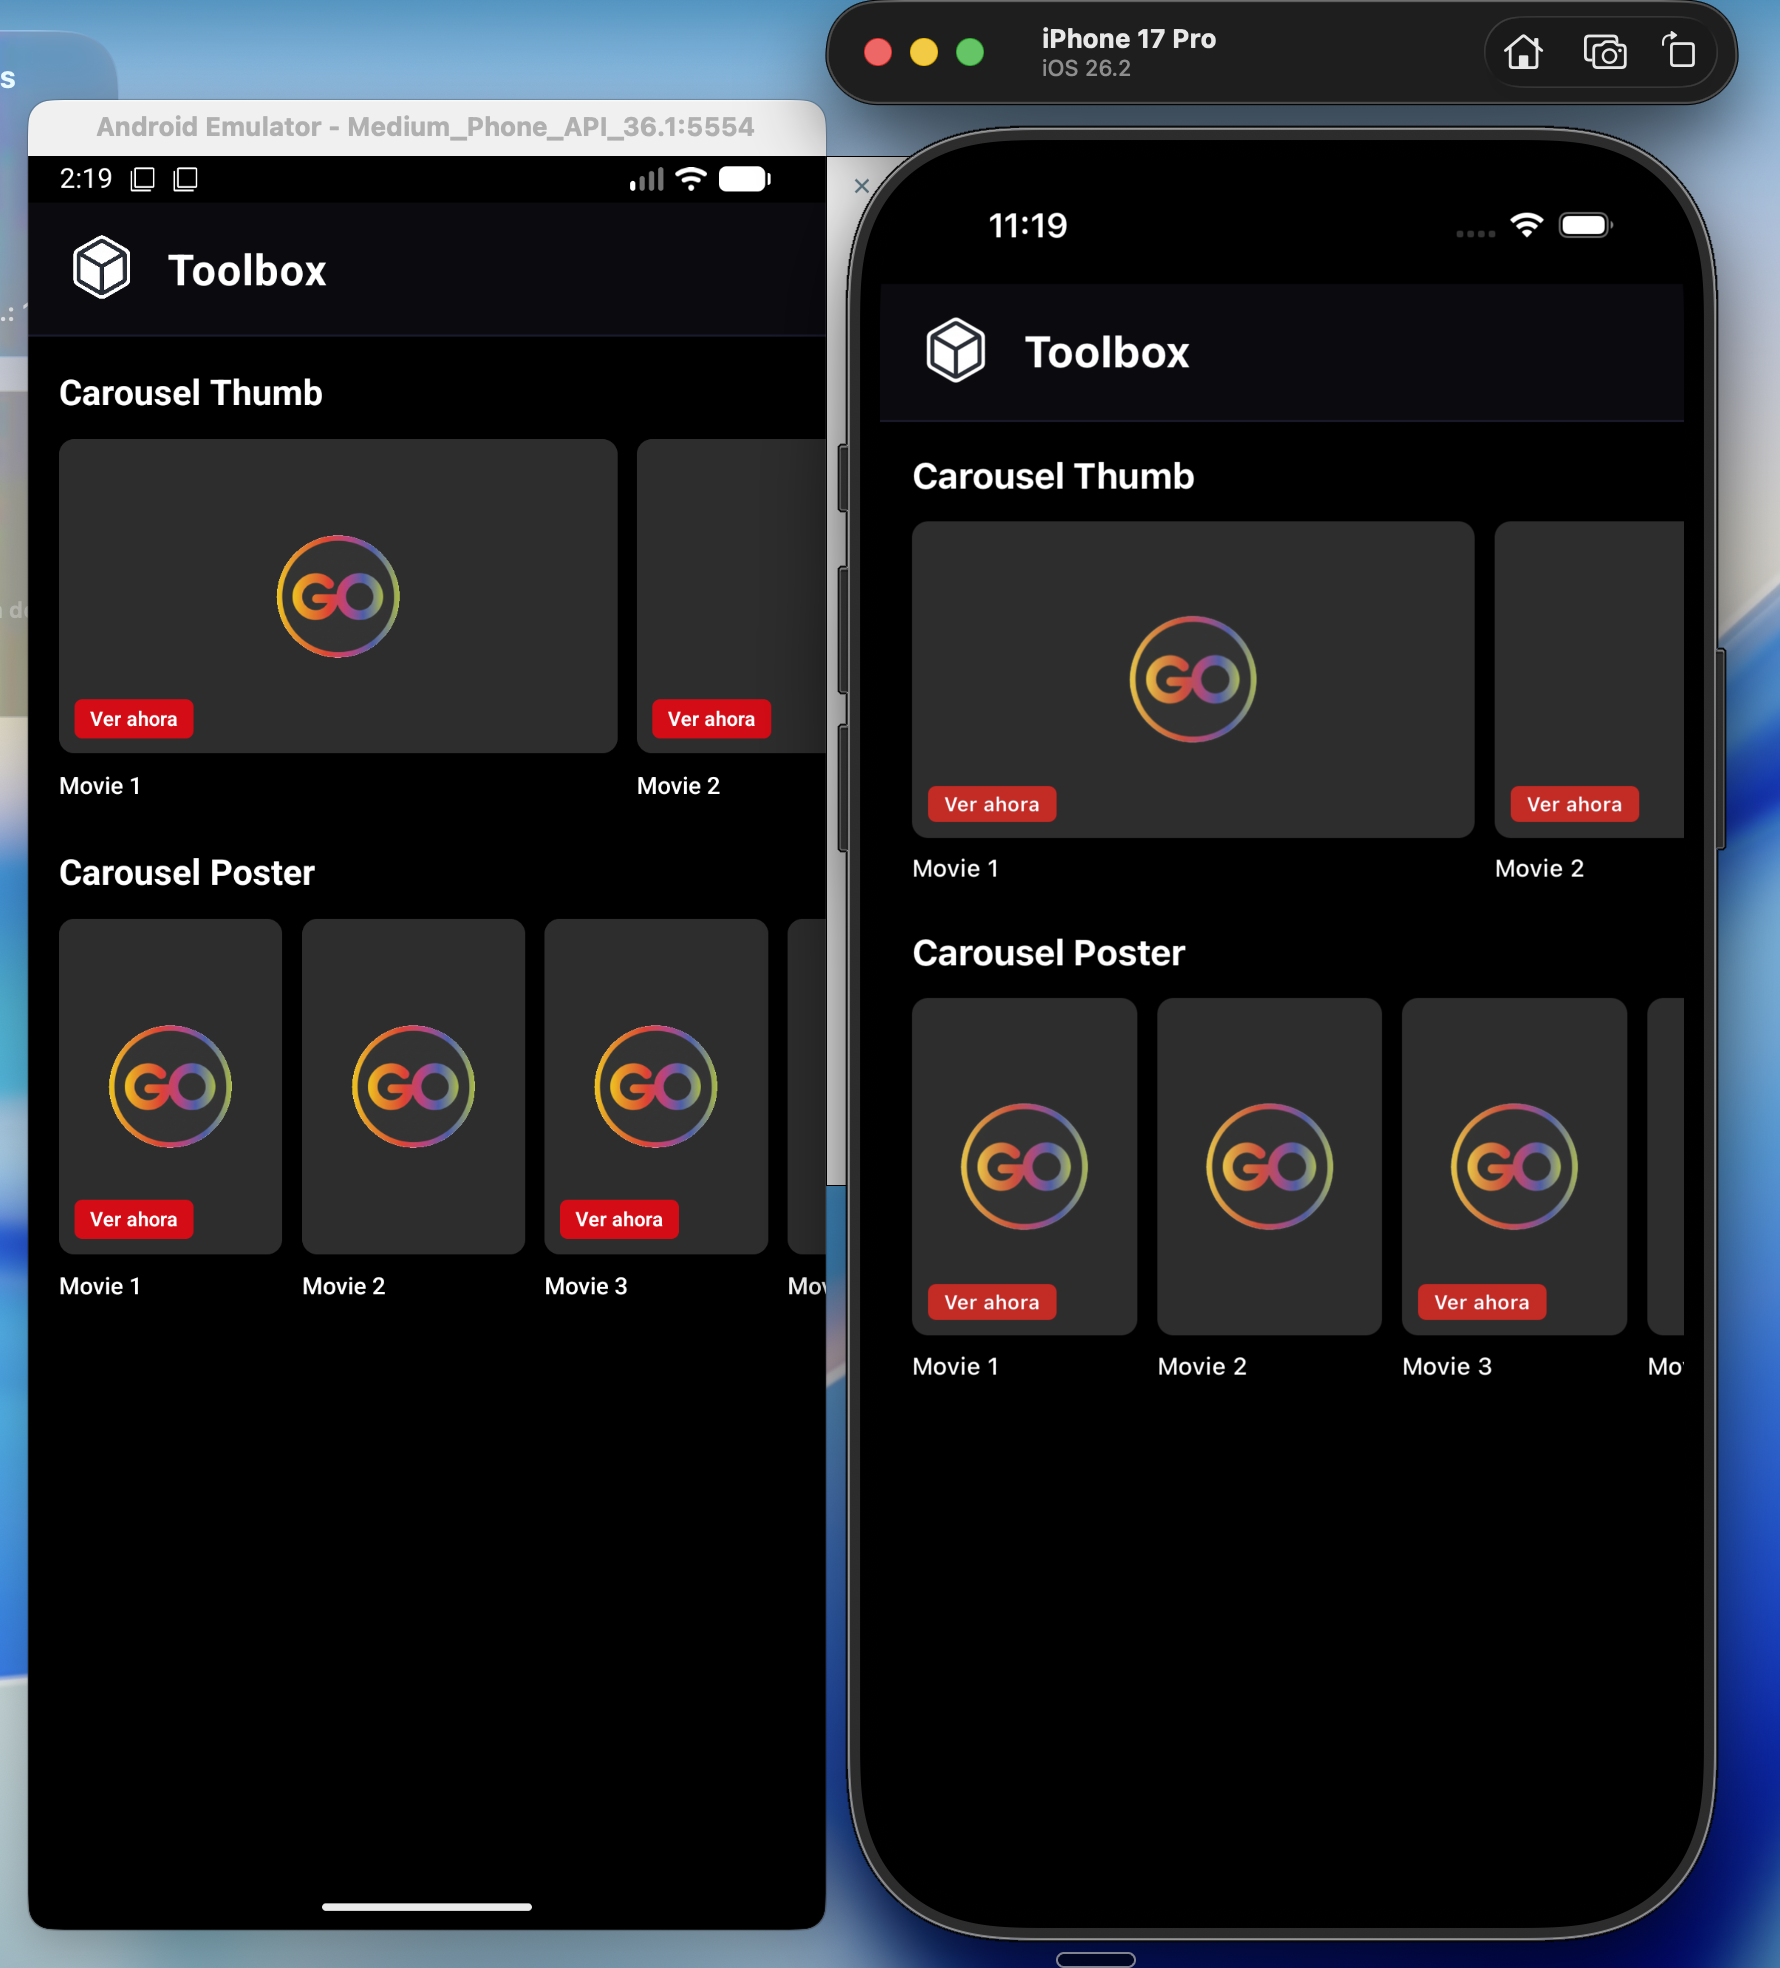
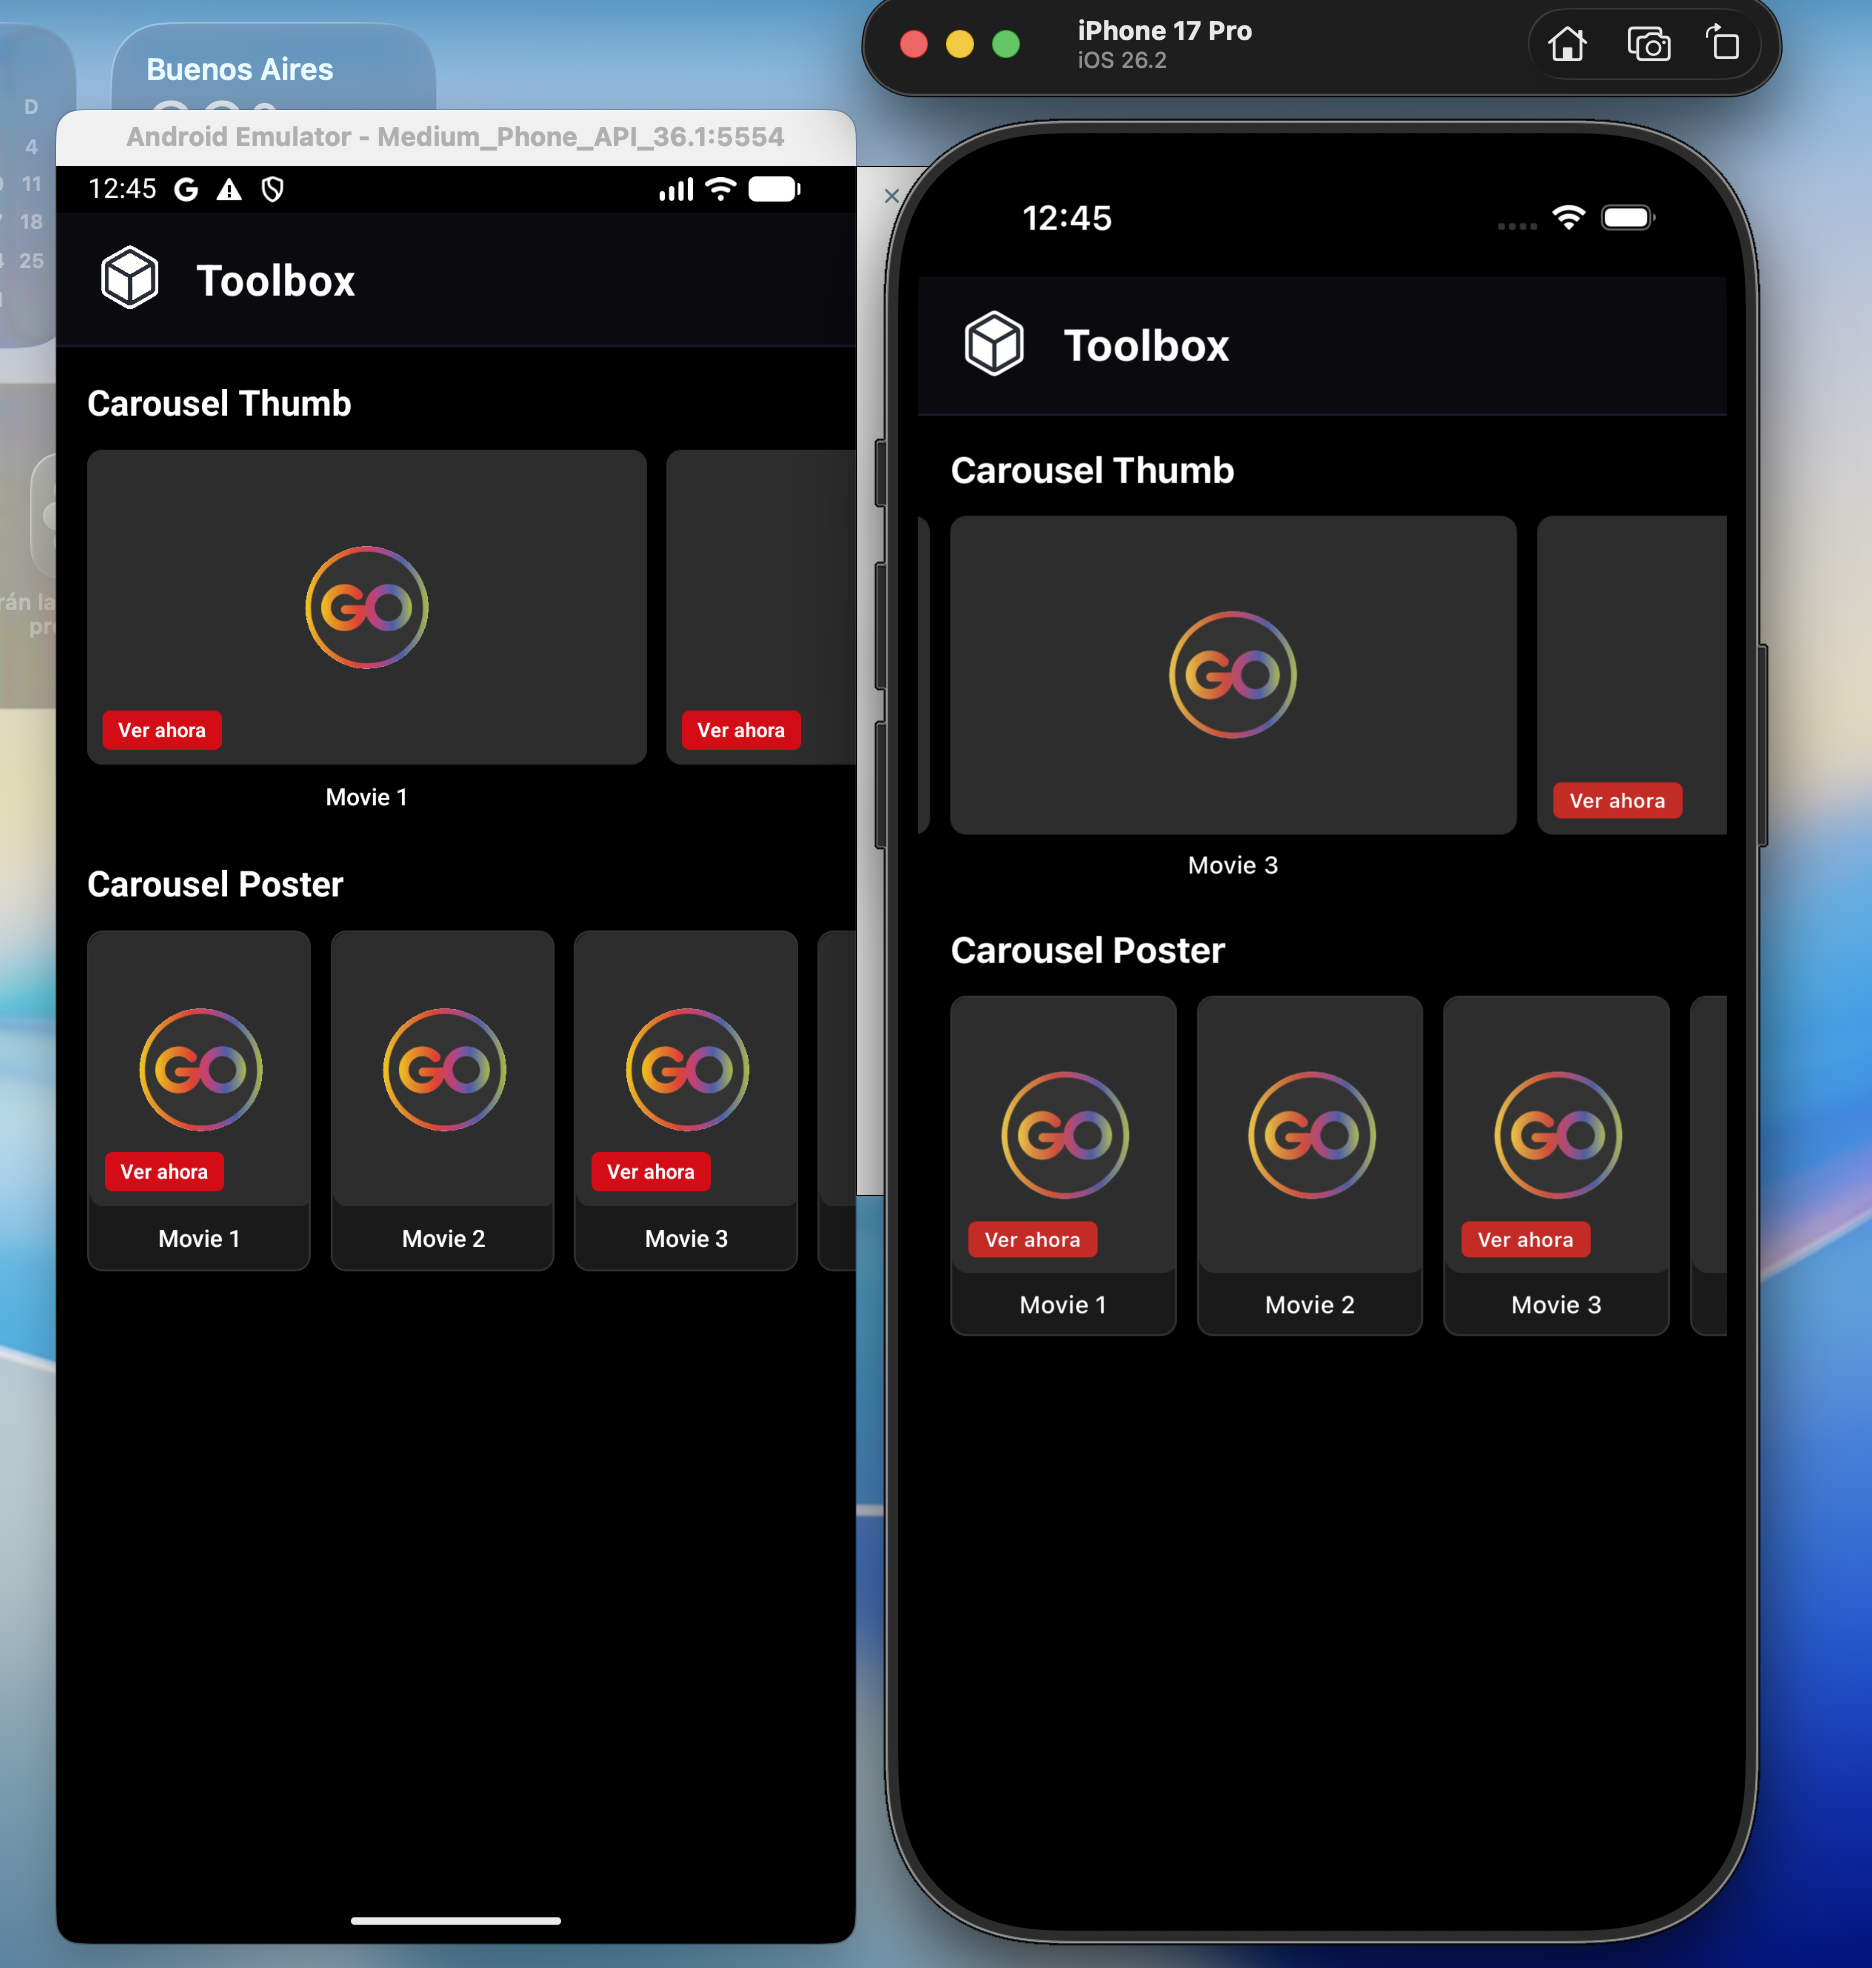
fix: carousel design matching mockup specs
- Poster: title inside card, centered at bottom
- Thumb: title outside card, centered below
- Updated screenshots with new design

diff --git a/src/components/Carousel/CarouselItem.js b/src/components/Carousel/CarouselItem.js
@@ -15,7 +15,7 @@ const MoviePlaceholder = ({ width, height, testID }) => (
   </View>
 );
 
-const CarouselItem = ({ item, dimensions, onPress, testID }) => {
+const CarouselItem = ({ item, dimensions, onPress, variant = 'thumb', testID }) => {
   // Manejo el clic en el item
   const handlePress = useCallback(() => {
     if (onPress) {
@@ -24,6 +24,7 @@ const CarouselItem = ({ item, dimensions, onPress, testID }) => {
   }, [item, onPress]);
 
   const hasImage = Boolean(item.imageUrl);
+  const isPoster = variant === 'poster';
 
   return (
     <TouchableOpacity
@@ -35,33 +36,69 @@ const CarouselItem = ({ item, dimensions, onPress, testID }) => {
       accessibilityLabel={`${item.title}${item.hasVideo ? ', tiene video disponible' : ''}`}
       accessibilityHint="Toca para ver detalles"
     >
-      <View style={styles.imageContainer}>
-        {hasImage ? (
-          <LazyImage
-            source={item.imageUrl}
-            style={[
-              styles.image,
-              { width: dimensions.width, height: dimensions.height },
-            ]}
-            testID={`${testID}-image`}
-          />
-        ) : (
-          <MoviePlaceholder
-            width={dimensions.width}
-            height={dimensions.height}
-            testID={`${testID}-placeholder`}
-          />
-        )}
-        {item.hasVideo && (
-          <View style={styles.videoBadge}>
-            <Text style={styles.videoBadgeText}>Ver ahora</Text>
+      {/* Poster: card con borde que incluye imagen + título */}
+      {isPoster ? (
+        <View style={styles.posterCard}>
+          <View style={[styles.posterImageContainer, { height: dimensions.height - 32 }]}>
+            {hasImage ? (
+              <LazyImage
+                source={item.imageUrl}
+                style={[
+                  styles.image,
+                  { width: dimensions.width, height: dimensions.height - 32 },
+                ]}
+                testID={`${testID}-image`}
+              />
+            ) : (
+              <MoviePlaceholder
+                width={dimensions.width}
+                height={dimensions.height - 32}
+                testID={`${testID}-placeholder`}
+              />
+            )}
+            {item.hasVideo && (
+              <View style={styles.videoBadge}>
+                <Text style={styles.videoBadgeText}>Ver ahora</Text>
+              </View>
+            )}
           </View>
-        )}
-      </View>
-
-      <Text style={styles.title} numberOfLines={2}>
-        {item.title}
-      </Text>
+          <View style={styles.posterTitleContainer}>
+            <Text style={styles.posterTitle} numberOfLines={1}>
+              {item.title}
+            </Text>
+          </View>
+        </View>
+      ) : (
+        /* Thumb: imagen con título afuera */
+        <>
+          <View style={[styles.imageContainer, { height: dimensions.height }]}>
+            {hasImage ? (
+              <LazyImage
+                source={item.imageUrl}
+                style={[
+                  styles.image,
+                  { width: dimensions.width, height: dimensions.height },
+                ]}
+                testID={`${testID}-image`}
+              />
+            ) : (
+              <MoviePlaceholder
+                width={dimensions.width}
+                height={dimensions.height}
+                testID={`${testID}-placeholder`}
+              />
+            )}
+            {item.hasVideo && (
+              <View style={styles.videoBadge}>
+                <Text style={styles.videoBadgeText}>Ver ahora</Text>
+              </View>
+            )}
+          </View>
+          <Text style={styles.title} numberOfLines={2}>
+            {item.title}
+          </Text>
+        </>
+      )}
     </TouchableOpacity>
   );
 };
@@ -70,6 +107,29 @@ const styles = StyleSheet.create({
   container: {
     marginRight: 10,
   },
+  // Poster styles - card con borde
+  posterCard: {
+    borderRadius: 8,
+    borderWidth: 1,
+    borderColor: '#333',
+    overflow: 'hidden',
+    backgroundColor: '#1a1a1a',
+  },
+  posterImageContainer: {
+    overflow: 'hidden',
+  },
+  posterTitleContainer: {
+    paddingHorizontal: 8,
+    paddingVertical: 8,
+    backgroundColor: '#1a1a1a',
+  },
+  posterTitle: {
+    color: '#fff',
+    fontSize: 12,
+    fontWeight: '500',
+    textAlign: 'center',
+  },
+  // Thumb styles - imagen con título afuera
   imageContainer: {
     borderRadius: 8,
     overflow: 'hidden',
@@ -93,7 +153,9 @@ const styles = StyleSheet.create({
     fontSize: 12,
     fontWeight: '500',
     marginTop: 8,
+    textAlign: 'center',
   },
+  // Badge styles
   videoBadge: {
     position: 'absolute',
     bottom: 8,

diff --git a/src/components/Carousel/PosterCarousel.js b/src/components/Carousel/PosterCarousel.js
@@ -17,6 +17,7 @@ const PosterCarousel = ({ carousel, onItemPress, testID }) => {
         item={item}
         dimensions={{ width: POSTER_WIDTH, height: POSTER_HEIGHT }}
         onPress={onItemPress}
+        variant="poster"
         testID={`${testID}-item-${index}`}
       />
     ),

diff --git a/src/components/Carousel/ThumbCarousel.js b/src/components/Carousel/ThumbCarousel.js
@@ -16,6 +16,7 @@ const ThumbCarousel = ({ carousel, onItemPress, testID }) => {
         item={item}
         dimensions={{ width: THUMB_WIDTH, height: THUMB_HEIGHT }}
         onPress={onItemPress}
+        variant="thumb"
         testID={`${testID}-item-${index}`}
       />
     ),
